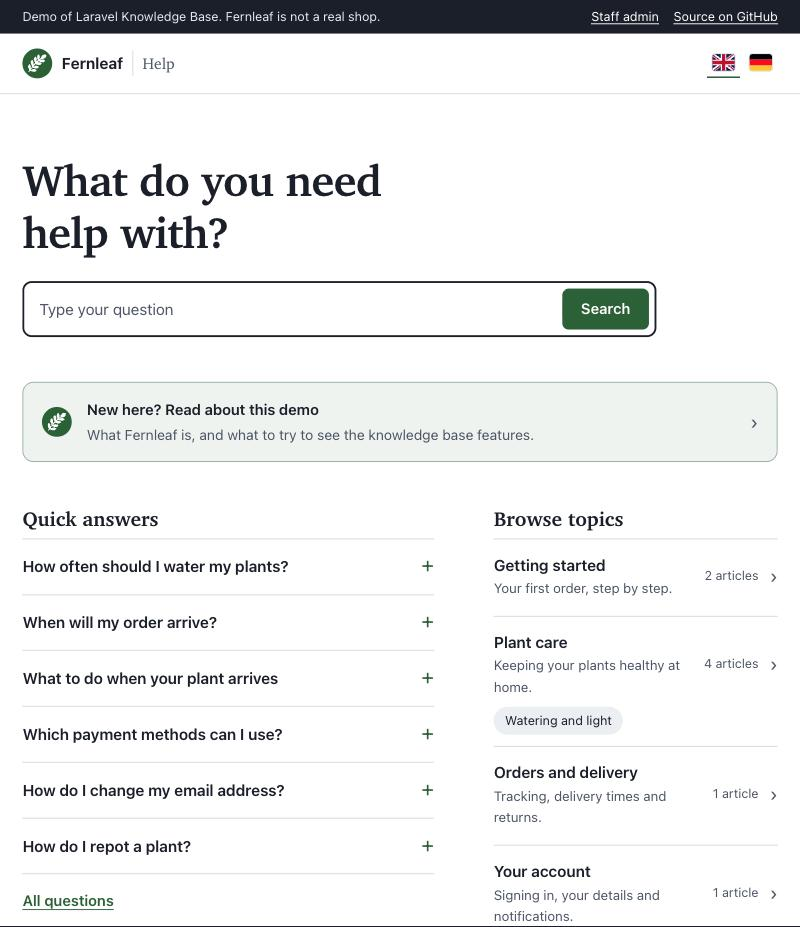
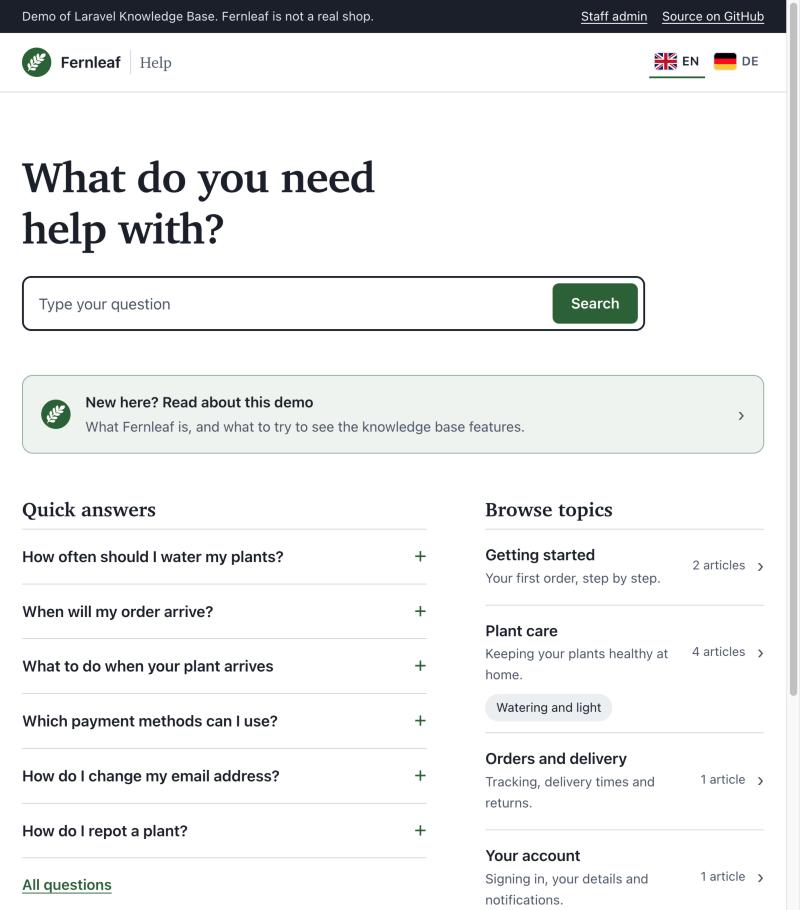
feat: start in the reader's language, x-default hreflang, codes next to flags
- / and /help pick the language from the browser on a first visit and
  remember the reader's own choice for a year (a choice always wins over
  the browser setting); unknown languages fall back to English.
- Every page points search engines to the authoritative version with
  hreflang="x-default".
- The language switcher shows the language code next to each flag, since
  a flag stands for a country, not a language.

diff --git a/tests/Feature/HelpCenterPagesTest.php b/tests/Feature/HelpCenterPagesTest.php
@@ -199,11 +199,46 @@ it('describes each topic on the home page', function () {
         ->assertSee('kb-chips--small', false);
 });
 
-it('shows a flag per language in the switcher, with the language name for screen readers', function () {
+it('shows a flag and the language code in the switcher, with the language name for screen readers', function () {
     $this->get('/en/help')
         ->assertOk()
         ->assertSee('class="kb-flag"', false)
+        ->assertSee('<span class="kb-langs__code" aria-hidden="true">DE</span>', false)
         ->assertSee('<span class="kb-visually-hidden">English</span>', false)
-        ->assertSee('<span class="kb-visually-hidden">Deutsch</span>', false)
-        ->assertDontSee('>EN</span>', false);
+        ->assertSee('<span class="kb-visually-hidden">Deutsch</span>', false);
+});
+
+it('opens the help center in the browser\'s language on a first visit', function () {
+    $this->get('/', ['Accept-Language' => 'de-DE,de;q=0.9,en;q=0.8'])->assertRedirect('/de/help');
+    $this->get('/help', ['Accept-Language' => 'en-US,en;q=0.9'])->assertRedirect('/en/help');
+
+    // A language the help center doesn't offer: the default language.
+    $this->get('/help', ['Accept-Language' => 'fr-FR,fr;q=0.9'])->assertRedirect('/en/help');
+});
+
+it('remembers the language the reader chose for a year', function () {
+    $this->get('/de/help')->assertOk()->assertCookie('help_locale', 'de');
+
+    // A German reader with an English browser stays in German.
+    $this->withCookie('help_locale', 'de')
+        ->get('/', ['Accept-Language' => 'en-US,en;q=0.9'])
+        ->assertRedirect('/de/help');
+
+    // Switching to English is remembered too, even with a German browser.
+    $this->get('/en/help')->assertCookie('help_locale', 'en');
+    $this->withCookie('help_locale', 'en')
+        ->get('/help', ['Accept-Language' => 'de-DE,de;q=0.9'])
+        ->assertRedirect('/en/help');
+});
+
+it('ignores a remembered language that is no longer offered', function () {
+    $this->withCookie('help_locale', 'fr')
+        ->get('/', ['Accept-Language' => 'de-DE,de;q=0.9'])
+        ->assertRedirect('/de/help');
+});
+
+it('points search engines to the authoritative version with x-default', function () {
+    $this->get('/de/help/articles/wann-kommt-meine-bestellung-an')
+        ->assertOk()
+        ->assertSee('hreflang="x-default" href="'.url('/en/help/articles/when-will-my-order-arrive').'"', false);
 });

diff --git a/app/Http/Controllers/HelpCenterController.php b/app/Http/Controllers/HelpCenterController.php
@@ -8,6 +8,7 @@ use Illuminate\Http\RedirectResponse;
 use Illuminate\Http\Request;
 use Illuminate\Routing\Controller;
 use Illuminate\Support\Collection;
+use Illuminate\Support\Facades\Cookie;
 use Illuminate\View\View;
 use JeffersonGoncalves\KnowledgeBase\Services\KnowledgeBaseService;
 use JeffersonGoncalves\KnowledgeBase\Support\HelpCenter;
@@ -19,13 +20,32 @@ use JeffersonGoncalves\KnowledgeBase\Support\Locales;
  */
 class HelpCenterController extends Controller
 {
+    /** The reader's language, remembered for a year. */
+    private const LOCALE_COOKIE = 'help_locale';
+
     public function __construct(private readonly HelpCenter $help) {}
 
-    public function entry(): RedirectResponse
+    /**
+     * The help center without a language (/ and /help): the language the
+     * reader chose before, else the best match for their browser, else the
+     * default language. A choice always wins over the browser setting.
+     */
+    public function entry(Request $request): RedirectResponse
     {
-        $locale = Locales::isConfigured(app()->getLocale()) ? app()->getLocale() : Locales::default();
+        $chosen = $request->cookie(self::LOCALE_COOKIE);
 
-        return redirect()->route(HelpRoutes::name('home'), ['locale' => $locale]);
+        if (is_string($chosen) && Locales::isConfigured($chosen)) {
+            $locale = $chosen;
+        } else {
+            // Symfony returns the first entry when nothing matches, so list
+            // the default language first.
+            $candidates = array_values(array_unique([Locales::default(), ...Locales::all()]));
+            $locale = $request->getPreferredLanguage($candidates) ?? Locales::default();
+        }
+
+        return redirect()
+            ->route(HelpRoutes::name('home'), ['locale' => $locale])
+            ->header('Vary', 'Accept-Language, Cookie');
     }
 
     public function home(string $locale): View
@@ -208,6 +228,9 @@ class HelpCenterController extends Controller
         abort_unless(Locales::isConfigured($locale), 404);
 
         app()->setLocale($locale);
+
+        // Remember the reader's language for their next visit to / or /help.
+        Cookie::queue(self::LOCALE_COOKIE, $locale, 60 * 24 * 365);
     }
 
     /**

diff --git a/database/seeders/FernleafSeeder.php b/database/seeders/FernleafSeeder.php
@@ -284,6 +284,7 @@ HTML,
 <h2>What to try</h2>
 <ul>
 <li><strong>Two languages.</strong> Switch to German with the flags at the top. English is the authoritative language; most articles also have a German version.</li>
+<li><strong>Your language first.</strong> Opening the help center without a language, like <a href="/">the start page</a>, picks English or German from your browser settings and remembers the language you choose.</li>
 <li><strong>A missing translation.</strong> <a href="/de/help/articles/how-often-should-i-water-my-plants">This article</a> has no German version, so German readers get the English one, with a notice.</li>
 <li><strong>An outdated translation.</strong> The English version of <a href="/de/help/articles/wie-topfe-ich-eine-pflanze-um">this article</a> changed after it was translated, so the German version is flagged as possibly out of date.</li>
 <li><strong>Search per language.</strong> <a href="/de/help/search?q=Lieferung">Search in German</a> finds the German versions.</li>
@@ -304,6 +305,7 @@ HTML,
 <h2>Was du ausprobieren kannst</h2>
 <ul>
 <li><strong>Zwei Sprachen.</strong> Wechsle oben über die Flaggen zu Englisch. Englisch ist die maßgebliche Sprache; die meisten Artikel haben auch eine deutsche Version.</li>
+<li><strong>Deine Sprache zuerst.</strong> Öffnest du das Hilfecenter ohne Sprache, wie <a href="/">die Startseite</a>, wählt es Englisch oder Deutsch nach deinen Browsereinstellungen und merkt sich die Sprache, die du wählst.</li>
 <li><strong>Eine fehlende Übersetzung.</strong> <a href="/de/help/articles/how-often-should-i-water-my-plants">Dieser Artikel</a> hat keine deutsche Version. Du bekommst die englische, mit einem Hinweis.</li>
 <li><strong>Eine veraltete Übersetzung.</strong> Die englische Version von <a href="/de/help/articles/wie-topfe-ich-eine-pflanze-um">diesem Artikel</a> wurde nach der Übersetzung geändert, deshalb ist die deutsche als möglicherweise veraltet markiert.</li>
 <li><strong>Suche pro Sprache.</strong> <a href="/de/help/search?q=Lieferung">Eine Suche auf Deutsch</a> findet die deutschen Versionen.</li>

diff --git a/resources/views/help/partials/styles.blade.php b/resources/views/help/partials/styles.blade.php
@@ -62,9 +62,9 @@
 a.kb-langs__item:hover { background: var(--kb-mist); color: var(--kb-ink) !important; }
 .kb-langs__item[aria-current] { color: var(--kb-ink) !important; box-shadow: inset 0 -2px 0 var(--kb-accent); border-radius: 0; }
 .kb-langs__item--off { opacity: 0.4; }
-.kb-flag { display: block; width: 1.5rem; height: 1.125rem; overflow: hidden; border-radius: 3px; box-shadow: 0 0 0 1px rgb(0 0 0 / 0.12); }
+.kb-flag { display: block; flex: none; width: 1.5rem; height: 1.125rem; overflow: hidden; border-radius: 3px; box-shadow: 0 0 0 1px rgb(0 0 0 / 0.12); }
 .kb-flag svg { display: block; width: 100%; height: 100%; }
-.kb-langs__item:has(.kb-flag) { min-width: 0; padding: 6px 6px 8px; }
+.kb-langs__item:has(.kb-flag) { display: inline-flex; align-items: center; gap: 6px; min-width: 0; padding: 6px 6px 8px; }
 
 .kb-main { display: block; outline: none; }
 .kb-visually-hidden { position: absolute; width: 1px; height: 1px; padding: 0; margin: -1px; overflow: hidden; clip: rect(0 0 0 0); white-space: nowrap; border: 0; }

diff --git a/resources/views/help/layout.blade.php b/resources/views/help/layout.blade.php
@@ -22,6 +22,10 @@
     @foreach ($switch as $alternateLocale => $alternateUrl)
         <link rel="alternate" hreflang="{{ $alternateLocale }}" href="{{ $alternateUrl }}">
     @endforeach
+    @if (isset($switch[\JeffersonGoncalves\KnowledgeBase\Support\Locales::default()]))
+        {{-- Readers whose language isn't offered get the authoritative version. --}}
+        <link rel="alternate" hreflang="x-default" href="{{ $switch[\JeffersonGoncalves\KnowledgeBase\Support\Locales::default()] }}">
+    @endif
     @include('help.partials.styles')
 </head>
 <body class="kb">

diff --git a/resources/views/help/partials/language.blade.php b/resources/views/help/partials/language.blade.php
@@ -1,6 +1,6 @@
 @php use App\Support\HelpRoutes; @endphp
 @if ($flag = HelpRoutes::flag($code))
-<span class="kb-flag" aria-hidden="true">{!! $flag !!}</span><span class="kb-visually-hidden">{{ HelpRoutes::languageName($code) }}</span>
+<span class="kb-flag" aria-hidden="true">{!! $flag !!}</span><span class="kb-langs__code" aria-hidden="true">{{ strtoupper($code) }}</span><span class="kb-visually-hidden">{{ HelpRoutes::languageName($code) }}</span>
 @else
 {{ strtoupper($code) }}
 @endif

diff --git a/README.md b/README.md
@@ -66,6 +66,7 @@ Without Docker (PHP 8.2+ with intl, SQLite): `composer setup`, then `php artisan
 The first article in the help center, "About this demo", links to each of these.
 
 - **Two languages.** English is the authoritative language, German the translation. Switch with the flags at the top.
+- **Your language first.** Opening the help center without a language (`/` or `/help`) picks English or German from your browser settings, and remembers the language you choose.
 - **A missing translation.** An article without a German version is served in English to German readers, with a notice.
 - **An outdated translation.** When the English version changes, the German one can be flagged as outdated; readers see a warning and a link to the English version.
 - **Search per language.** A German search finds German versions.
